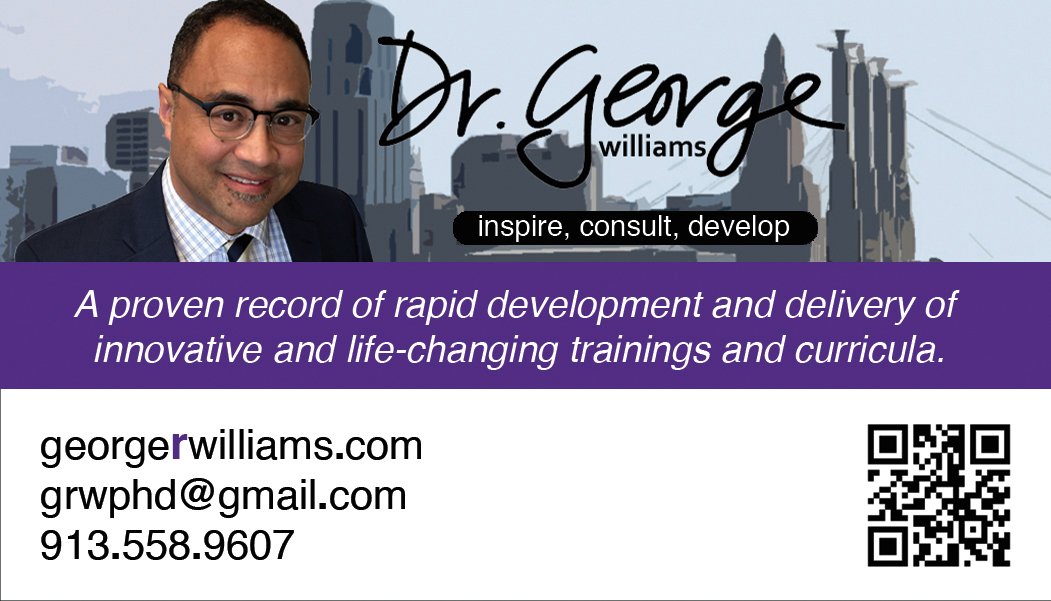
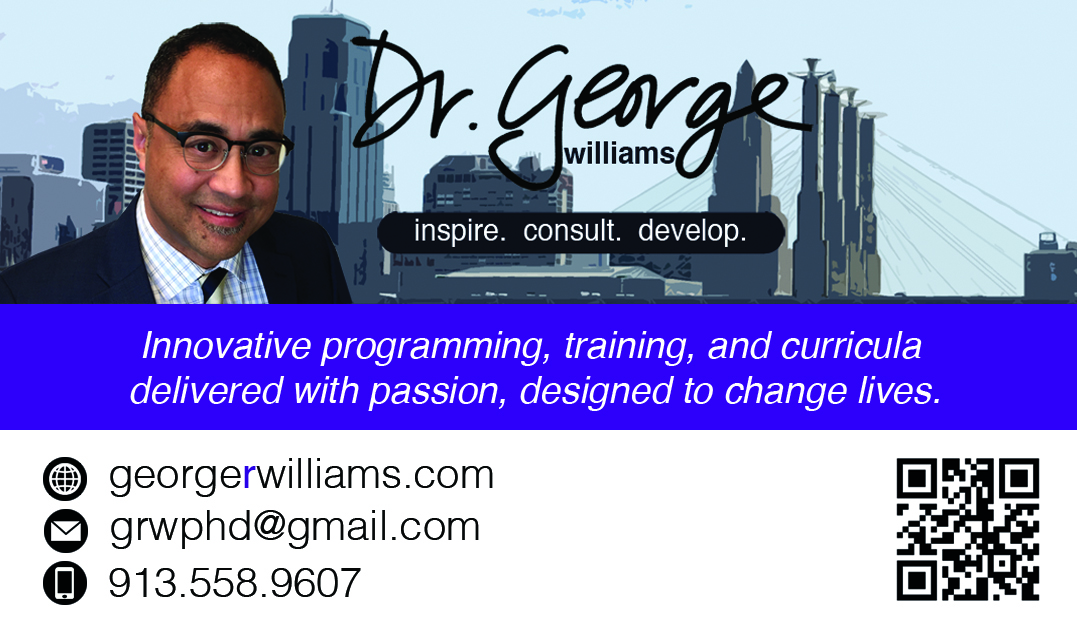
quote

diff --git a/index.html b/index.html
@@ -54,7 +54,7 @@ li a:hover:not(.active) {
           <li><a href="media/contact.html"><img src="pictures/email.png"></a></li>
     </ul>
     <div class="quote_background">
-        <div class="quote">Timely and reliable development and delivery of innovative trainings and curricula to change lives.</div>
+        <div class="quote">Innovative programming, trainings, and curricula developed with passion, designed to change lives.</div>
     </div>
     
     <div class="page">
